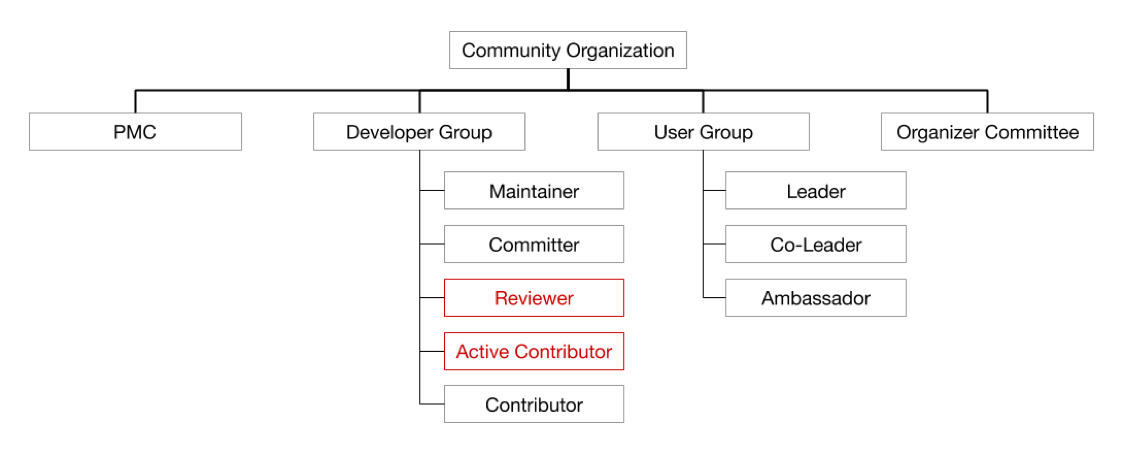
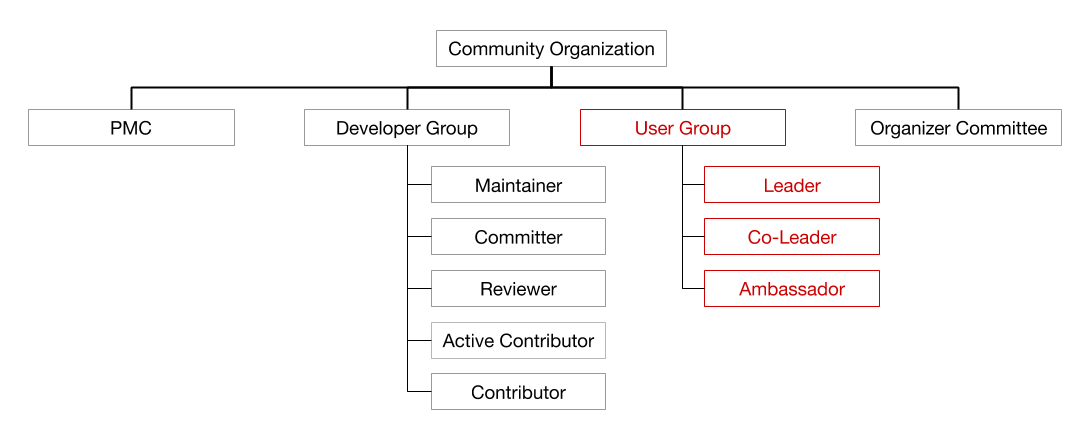
update content

diff --git a/tidb-community-upgrade.md b/tidb-community-upgrade.md
@@ -17,37 +17,48 @@ tags: ['社区','社区动态']
 
 <center>图 1 老社区架构</center>
 
-这里简单介绍下老社区架构中的两种社区角色：
+老社区架构主要面向 TiDB 开发者社区（Developer Group），主要角色有 Maintainer、Committer、Contributor 等，其中：
 
 * Committer：由 Maintainer 或 PMC 推荐，是对 TiDB 有突出贡献的 Contributor。需要独立完成至少一个 feature 或修复重大 bug。
 
 * Maintainer：项目的规划和设计者，拥有合并主干分支的权限，从 Committer 中产生。他们必须对子项目的健康表现出良好的判断力和责任感。维护者必须直接或通过委派这些职责来设置技术方向并为子项目做出或批准设计决策。
 
 可以看到老社区架构中对角色的职责、角色之间关系的表述都比较简单，所以我们在新社区架构中做了一些加法，对每个角色定义、权责做了明确的界定，同时也增加了一些新角色、新组织，下面让我们来详细地看一看。
+可以看到老社区架构屏蔽了日益壮大的、对产品打磨升级至关重要的 TiDB 用户群体，并且老架构中对与开发者社区角色的职责、角色之间关系的表述都比较简单，所以我们在新社区架构中做了一些加法，将 TiDB 用户社区纳入进来的同时，对 TiDB 开发者社区的每个角色定义、权责又做了明确的界定，同时也增加了一些新角色、新组织，下面让我们来详细地看一看。
 
 ## 新社区架构
 
-### 变化 1：Active Contributor 和 Reviewer
+### 变化 1：将 TiDB 用户社区纳入整体社区架构
 
-![图 2 新社区架构之 Active Contributor & Reviewer](media/tidb-community-upgrade/2.png)
+随着 TiDB 产品的成熟，TiDB 用户群体愈发壮大，用户在使用过程中遇到的问题反馈及实践经验，对于 TiDB 产品的完善及应用推广有着不可忽视的重要作用。因此我们此次正式将 TiDB 用户社区（TiDB User Group，简称 TUG）纳入新的社区架构中来，希望用户与开发者有更好的交流互动，一起推动 TiDB 社区的健康发展。
 
-<center>图 2 新社区架构之 Active Contributor & Reviewer</center>
+![图 2 新社区架构之 User Group](media/tidb-community-upgrade/2.png)
 
-上图是升级后的社区总架构图概览，反映了这次社区架构升级的第 1 个变化：在开发者社区中，新增了 Reviewer 和 Active Contributor 的角色。
+<center>图 2 新社区架构之 User Group</center>
+
+TiDB User Group（TUG）是由 TiDB 用户发起的独立、非盈利的第三方组织，用户实行自我管理，旨在加强 TiDB 用户之间的交流和学习。TUG 的形式包括但不限于线上问答和技术文章分享、线下技术沙龙、走进名企、官方互动活动等等。TUG 成员可以通过线上、线下的活动，学习前沿技术知识，发表技术见解，共同建设 TiDB 项目。更多信息可以登陆 TUG 问答论坛 [asktug.com](https://asktug.com) 查看。
+
+### 变化 2：Active Contributor 和 Reviewer
+
+![图 3 新社区架构之 Active Contributor & Reviewer](media/tidb-community-upgrade/3.png)
+
+<center>图 3 新社区架构之 Active Contributor & Reviewer</center>
+
+上图是升级后的社区总架构图概览，反映了这次社区架构升级的第 2 个变化：在开发者社区中，新增了 Reviewer 和 Active Contributor 的角色。
 
 Active Contributor 是一年贡献超过 8 个 PR 的 Contributor。Reviewer 从 Active Contributor 中诞生，具有 Review PR 的义务，并且对 TiDB 或者 TiKV 某个子模块的 PR 的点赞（LGTM）有效。关于这些角色，我们将在后文介绍 Special Interest Group 时更详细的介绍。
 
-### 变化 2：Special Interest Group
+### 变化 3：Special Interest Group
 
 让我们把开发者社区架构图放大再看看：
 
-![图 3 新社区架构之 Special Interest Group](media/tidb-community-upgrade/3.png)
+![图 4 新社区架构之 Special Interest Group](media/tidb-community-upgrade/4.png)
 
-<center>图 3 新社区架构之 Special Interest Group</center>
+<center>图 4 新社区架构之 Special Interest Group</center>
 
-上图展示了以垂直的视角来细看开发者社区的整体架构，反应了这次社区架构升级的第 2 个变化：引入了 “专项兴趣小组”（Special Interest Group，简称 SIG）。
+上图展示了以垂直的视角来细看开发者社区的整体架构，反应了这次社区架构升级的第 3 个变化：引入了 “专项兴趣小组”（Special Interest Group，简称 SIG）。
 
-专项兴趣小组主要负责 TiDB/TiKV 某个模块的开发和维护工作，对该模块代码的质量负责。我们将邀请满足条件的 Active Contributor 加入专项兴趣小组，开发者们将在专项兴趣小组中获得来自 Lead 和 Co-Lead 们的持续指导，一边锻炼技术能力，一边优化和完善该模块。社区开发者们可通过专项兴趣小组逐渐从初始的 Active Contributor 成长为受到社区认可的 Reviewer、Committer 和 Maintainer。一般而言每个专项兴趣小组都会周期性的组织会议，讨论最近进展和遇到的问题，所有的会议讨论都公开在社区上，方便感兴趣的同学一起参与和讨论。
+专项兴趣小组主要负责 TiDB/TiKV 某个模块的开发和维护工作，对该模块代码的质量负责。我们将邀请满足条件的 Active Contributor 加入专项兴趣小组，开发者们将在专项兴趣小组中获得来自 Tech Lead 们的持续指导，一边锻炼技术能力，一边优化和完善该模块。社区开发者们可通过专项兴趣小组逐渐从初始的 Active Contributor 成长为受到社区认可的 Reviewer、Committer 和 Maintainer。一般而言每个专项兴趣小组都会周期性的组织会议，讨论最近进展和遇到的问题，所有的会议讨论都公开在社区上，方便感兴趣的同学一起参与和讨论。
 
 具体可参考目前我们正在运营的表达式专项兴趣小组：[Expression Special Interest Group](https://github.com/pingcap/community/pull/51)。
 
@@ -62,9 +73,9 @@ Active Contributor 是一年贡献超过 8 个 PR 的 Contributor。Reviewer 从
     + Reviewer 从 Active Contributor 中诞生，当 Active Contributor 对该模块拥有比较深度的贡献，并且得到 2 个或 2 个以上 Committer 的提名时，将被邀请成为该模块的 Reviewer。
     + Reviewer 对该模块代码的点赞（LGTM）有效（注：TiDB 要求每个 PR 至少拥有 2 个 LGTM 后才能够合并到开发分支）。
 
-3.  Lead 和 Co-Lead
+3.  Tech Lead
     + 即 SIG 的组织者，负责 SIG 的日常运营，包括组织会议，解答疑问等。
-    + Lead 和 Co-Lead 需要为 SIG 的管理和成长负责，责任重大。目前暂时由 PingCAP 内部同事担任，将来可由社区开发者一起担任，和 PingCAP 同事一起为 SIG 的进步而努力。
+    + Tech Lead 需要为 SIG 的管理和成长负责，责任重大。目前暂时由 PingCAP 内部同事担任，将来可由社区开发者一起担任，和 PingCAP 同事一起为 SIG 的进步而努力。
 
 再来看看另外两个角色：
 
@@ -77,13 +88,13 @@ Active Contributor 是一年贡献超过 8 个 PR 的 Contributor。Reviewer 从
 
 >以上社区角色的详细的定义和权责内容可以在 [这里](https://pingcap.com/community-cn/developer-group/) 查看。
 
-### 变化 3：Working Group
+### 变化 4：Working Group
 
-让我们再来看看开发者社区中的第 3 个变化：
+让我们再来看看开发者社区中的第 4 个变化：
 
-![图 4 新社区架构之 Working Group](media/tidb-community-upgrade/4.png)
+![图 5 新社区架构之 Working Group](media/tidb-community-upgrade/5.png)
 
-<center>图 4 新社区架构之 Working Group</center>
+<center>图 5 新社区架构之 Working Group</center>
 
 开发者社区架构中的最后一个变化是引入了 “工作小组”（Working Group，简称 WG）。工作小组是由为了完成某个特定目标而聚集在一起的社区开发者与 PingCAP 同事一起成立。为了完成目标，有些工作小组可能跨越多个 SIG，有些小组可能只会专注在某个具体的 SIG 中做某个具体的事情。
 
@@ -95,11 +106,13 @@ Active Contributor 是一年贡献超过 8 个 PR 的 Contributor。Reviewer 从
 
 总的来说，这次社区架构升级主要有如下改进：
 
-1. 引入了 Active Contributor、Reviewer 的社区角色。
+1. 引入了 TiDB 用户社区（TiDB User Group）。
 
-2. 引入了 Special Interest Group（SIG）。
+2. 引入了 Active Contributor、Reviewer 的社区角色。
 
-3. 引入了 Working Group（WG）。
+3. 引入了 Special Interest Group（SIG）。
+
+4. 引入了 Working Group（WG）。
 
 在社区运营方面，我们未来还将继续：
 
